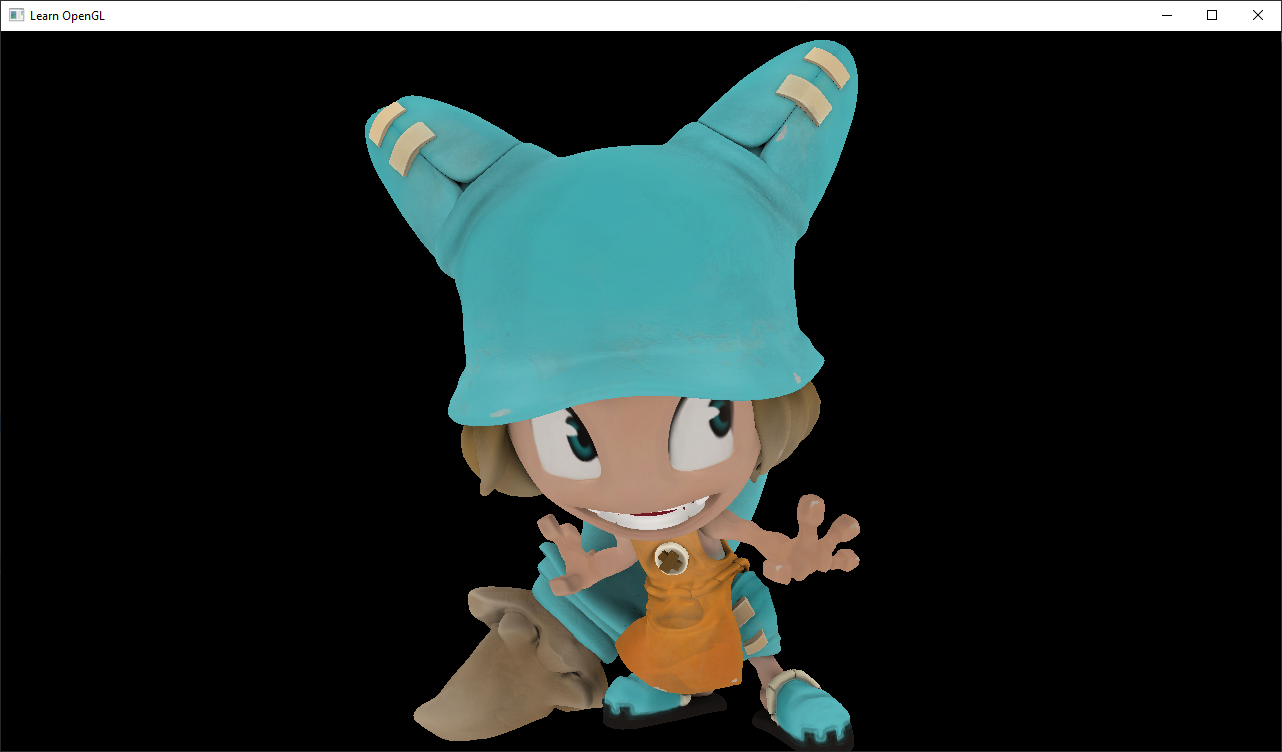
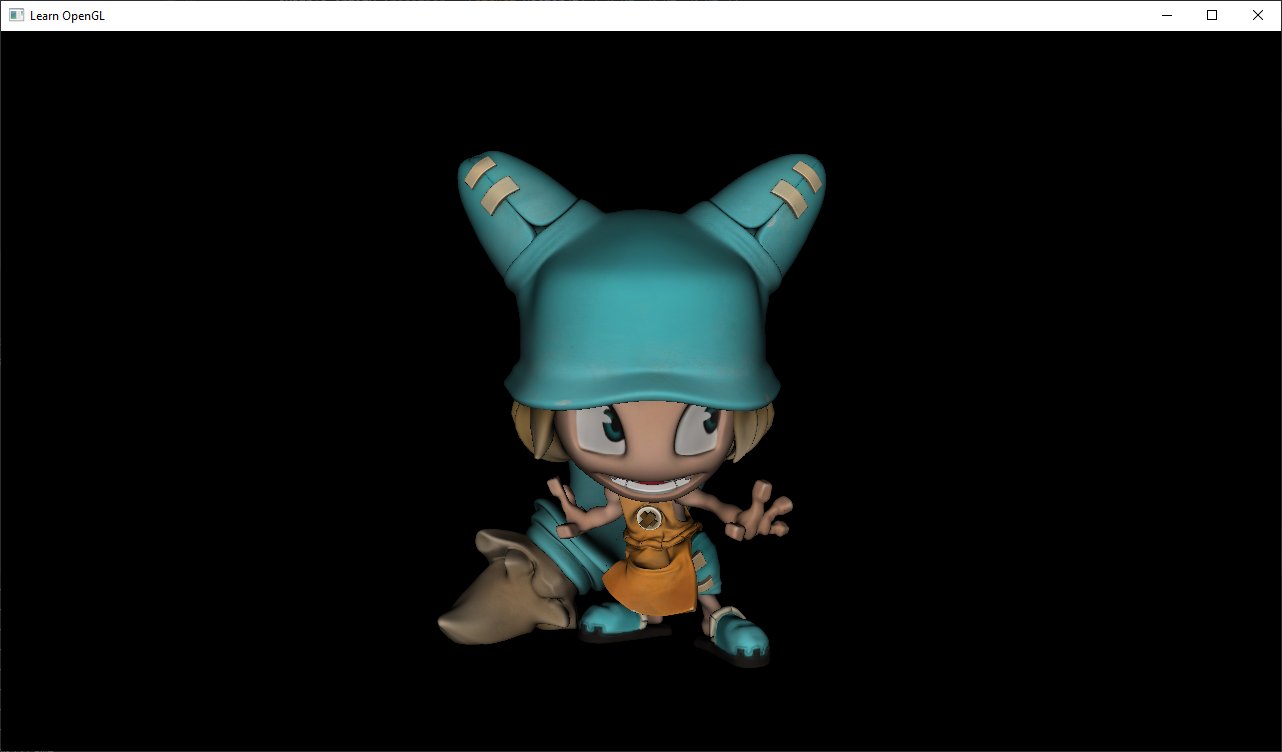
Diffuse lighting
Former-commit-id: 1a9fbbceac04022a40de9a5f4ab60ccb97bfb2f9

Changed region(s): [[0.2808, 0.0306, 0.6864, 1.0], [0.9984, 0.0306, 1.0, 0.0612]]

diff --git a/src/model.c b/src/model.c
@@ -9,6 +9,7 @@ struct model {
     GLuint vertices_buffer_id;
     GLuint faces_buffer_id;
     GLuint texture_uvs_buffer_id;
+    GLuint normals_buffer_id;
 
     size_t vertex_count;
     size_t face_count;
@@ -21,12 +22,16 @@ void model_use(struct model *model) {
     glBindBuffer(GL_ARRAY_BUFFER, model->vertices_buffer_id);
     glEnableVertexAttribArray(MODEL_ATTRIBUTE_VERTEX_COORDINATES);
 
-    // Faces
-    glBindBuffer(GL_ELEMENT_ARRAY_BUFFER, model->faces_buffer_id);
-
     // Texture uvs
     glBindBuffer(GL_ARRAY_BUFFER, model->texture_uvs_buffer_id);
     glEnableVertexAttribArray(MODEL_ATTRIBUTE_TEXTURE_COORDINATES);
+
+    // Normals
+    glBindBuffer(GL_ARRAY_BUFFER, model->normals_buffer_id);
+    glEnableVertexAttribArray(MODEL_ATTRIBUTE_NORMALS);
+
+    // Faces
+    glBindBuffer(GL_ELEMENT_ARRAY_BUFFER, model->faces_buffer_id);
 }
 
 size_t model_vertex_count(struct model *model) {
@@ -37,8 +42,7 @@ size_t model_face_count(struct model *model) {
     return model->face_count;
 }
 
-struct model *model_create_from_raw(
-    float *vertices, size_t vertex_count, unsigned int *faces, size_t face_count, float *texture_uvs) {
+struct model *model_create_from_raw(float *vertices, size_t vertex_count, unsigned int *faces, size_t face_count, float *texture_uvs, float *normals) {
     struct model *model = malloc(sizeof *model);
 
     if (!model) {
@@ -59,16 +63,22 @@ struct model *model_create_from_raw(
     glBufferData(GL_ARRAY_BUFFER, 3 * vertex_count * sizeof *vertices, vertices, GL_STATIC_DRAW);
     glVertexAttribPointer(MODEL_ATTRIBUTE_VERTEX_COORDINATES, 3, GL_FLOAT, GL_FALSE, 3 * sizeof (float), 0);
 
-    // Element Buffer Object (EBO).
-    glGenBuffers(1, &model->faces_buffer_id);
-    glBindBuffer(GL_ELEMENT_ARRAY_BUFFER, model->faces_buffer_id);
-    glBufferData(GL_ELEMENT_ARRAY_BUFFER, 3 * face_count * sizeof *faces, faces, GL_STATIC_DRAW);
-
     // Texture UVs.
     glGenBuffers(1, &model->texture_uvs_buffer_id);
     glBindBuffer(GL_ARRAY_BUFFER, model->texture_uvs_buffer_id);
     glBufferData(GL_ARRAY_BUFFER, 2 * vertex_count * sizeof *texture_uvs, texture_uvs, GL_STATIC_DRAW);
     glVertexAttribPointer(MODEL_ATTRIBUTE_TEXTURE_COORDINATES, 2, GL_FLOAT, GL_FALSE, 2 * sizeof (float), 0);
+
+    // Texture UVs.
+    glGenBuffers(1, &model->normals_buffer_id);
+    glBindBuffer(GL_ARRAY_BUFFER, model->normals_buffer_id);
+    glBufferData(GL_ARRAY_BUFFER, 3 * vertex_count * sizeof *normals, normals, GL_STATIC_DRAW);
+    glVertexAttribPointer(MODEL_ATTRIBUTE_NORMALS, 3, GL_FLOAT, GL_FALSE, 3 * sizeof (float), 0);
+
+    // Element Buffer Object (EBO).
+    glGenBuffers(1, &model->faces_buffer_id);
+    glBindBuffer(GL_ELEMENT_ARRAY_BUFFER, model->faces_buffer_id);
+    glBufferData(GL_ELEMENT_ARRAY_BUFFER, 3 * face_count * sizeof *faces, faces, GL_STATIC_DRAW);
 
     // Book-keeping
     model->vertex_count = vertex_count;
@@ -81,6 +91,7 @@ void model_destroy(struct model *model) {
     glDeleteBuffers(1, &model->vertices_buffer_id);
     glDeleteBuffers(1, &model->faces_buffer_id);
     glDeleteBuffers(1, &model->texture_uvs_buffer_id);
+    glDeleteBuffers(1, &model->normals_buffer_id);
     glDeleteVertexArrays(1, &model->vertex_array_id);
     free(model);
 }

diff --git a/src/shader.c b/src/shader.c
@@ -2,6 +2,7 @@
 #include "model.h"
 #include "toolkit.h"
 #include "vector.h"
+#include "light.h"
 
 #include <GL/glew.h>
 
@@ -15,6 +16,8 @@ struct shader {
     GLint uniform_transformation;
     GLint uniform_projection;
     GLint uniform_view;
+    GLint uniform_light_position;
+    GLint uniform_light_color;
 };
 
 GLuint _shader_load_one(const char *filepath, GLenum shader_type) {
@@ -77,6 +80,7 @@ struct shader *shader_load_by_name(const char *name) {
     // Binding shader input variables to attributes.
     glBindAttribLocation(shader->program_id, MODEL_ATTRIBUTE_VERTEX_COORDINATES, "position");
     glBindAttribLocation(shader->program_id, MODEL_ATTRIBUTE_TEXTURE_COORDINATES, "texture_coords");
+    glBindAttribLocation(shader->program_id, MODEL_ATTRIBUTE_NORMALS, "normal");
 
     // Linking
     glLinkProgram(shader->program_id);
@@ -98,11 +102,13 @@ struct shader *shader_load_by_name(const char *name) {
     shader->uniform_transformation = glGetUniformLocation(shader->program_id, "transformation");
     shader->uniform_projection = glGetUniformLocation(shader->program_id, "projection");
     shader->uniform_view = glGetUniformLocation(shader->program_id, "view");
+    shader->uniform_light_position = glGetUniformLocation(shader->program_id, "light_position");
+    shader->uniform_light_color = glGetUniformLocation(shader->program_id, "light_color");
 
     return shader;
 }
 
-void _shader_bind_uniform_matrix4f( GLint location, struct matrix4f m) {
+void _shader_bind_uniform_matrix4f(GLint location, struct matrix4f m) {
     float buffer[16] = {
         m.x1, m.x2, m.x3, m.x4,
         m.y1, m.y2, m.y3, m.y4,
@@ -113,15 +119,15 @@ void _shader_bind_uniform_matrix4f( GLint location, struct matrix4f m) {
     glUniformMatrix4fv(location, 1, false, buffer);
 }
 
-void _shader_bind_uniform_bool(struct shader *shader, GLint location, bool b) {
+void _shader_bind_uniform_bool(GLint location, bool b) {
     glUniform1f(location, b ? 1 : 0);
 }
 
-void _shader_bind_uniform_float(struct shader *shader, GLint location, float f) {
+void _shader_bind_uniform_float(GLint location, float f) {
     glUniform1f(location, f);
 }
 
-void _shader_bind_uniform_vec3f(struct shader *shader, GLint location, struct vector3f v) {
+void _shader_bind_uniform_vec3f(GLint location, struct vector3f v) {
     glUniform3f(location, v.x, v.y, v.z);
 }
 
@@ -129,6 +135,17 @@ void shader_bind_uniforms(struct shader *shader, struct matrix4f *transformation
     _shader_bind_uniform_matrix4f(shader->uniform_transformation, *transformation);
     _shader_bind_uniform_matrix4f(shader->uniform_projection, *projection);
     _shader_bind_uniform_matrix4f(shader->uniform_view, *view);
+
+}
+
+void shader_bind_uniforms_light(struct shader *shader, struct light *light) {
+    // Light position
+    struct vector3f *light_position = light_get_position(light);
+    glUniform3f(shader->uniform_light_position, light_position->x, light_position->y, light_position->z);
+
+    // Light color
+    struct vector3f *light_color = light_get_color(light);
+    glUniform3f(shader->uniform_light_color, light_color->x, light_color->y, light_color->z);
 }
 
 void shader_validate(struct shader *shader) {

diff --git a/src/main.c b/src/main.c
@@ -25,6 +25,9 @@ void main_loop(struct window *window, struct renderer *renderer) {
     // Camera
     struct camera *camera = camera_create();
 
+    // Light
+    struct light *light = light_create();
+
     // Prepare example model, shader and texture
     struct model *example_model = obj_load_model("models/wakfu.obj");
     struct shader *example_shader = shader_load_by_name("wakfu");
@@ -38,7 +41,10 @@ void main_loop(struct window *window, struct renderer *renderer) {
     example_entity->texture = example_texture;
 
     // Zoom-out the camera from the origin
-    camera_move(camera, 0, 0, 10.0f);
+    camera_move(camera, 0.0f, 0.0f, 8.0f);
+
+    // Move the light way back
+    light_move(light, 0.0f, 0.0f, 15.0f);
 
     double last_time = glfwGetTime();
     size_t nb_frames = 0;
@@ -63,7 +69,7 @@ void main_loop(struct window *window, struct renderer *renderer) {
         window_handle_events(window, renderer, camera);
 
         renderer_clear(renderer);
-        renderer_render(renderer, camera, example_entity);
+        renderer_render(renderer, camera, light, example_entity);
 
         window_refresh(window);
     }
@@ -72,5 +78,6 @@ void main_loop(struct window *window, struct renderer *renderer) {
     texture_destroy(example_texture);
     shader_destroy(example_shader);
     model_destroy(example_model);
+    light_destroy(light);
     camera_destroy(camera);
 }

diff --git a/src/light.c b/src/light.c
@@ -1,0 +1,40 @@
+#include "light.h"
+#include "vector.h"
+#include "toolkit.h"
+
+struct light {
+    struct vector3f position;
+    struct vector3f color;
+};
+
+struct light *light_create(void) {
+    struct light *light = malloc(sizeof *light);
+
+    if (!light) {
+        return NULL;
+    }
+
+    // TODO
+    light->position = (struct vector3f) { .x = 0.0f, .y = 0.0f, .z = 0.0f };
+    light->color = (struct vector3f) { .x = 1.0f, .y = 1.0f, .z = 1.0f };
+
+    return light;
+}
+
+void light_destroy(struct light *light) {
+    free(light);
+}
+
+void light_move(struct light *light, float dx, float dy, float dz) {
+    light->position.x += dx;
+    light->position.y += dy;
+    light->position.z += dz;
+}
+
+struct vector3f *light_get_position(struct light *light) {
+    return &light->position;
+}
+
+struct vector3f *light_get_color(struct light *light) {
+    return &light->color;
+}

diff --git a/src/renderer.c b/src/renderer.c
@@ -97,7 +97,7 @@ void renderer_set_wireframe(struct renderer *renderer, bool flag) {
     renderer->wireframe = flag;
 }
 
-void renderer_render(struct renderer *renderer, struct camera *camera, struct entity *entity) {
+void renderer_render(struct renderer *renderer, struct camera *camera, struct light *light, struct entity *entity) {
     TK_UNUSED(renderer);
 
     if (renderer->wireframe) {
@@ -116,6 +116,7 @@ void renderer_render(struct renderer *renderer, struct camera *camera, struct en
     struct matrix4f projection = renderer_projection_matrix(renderer);
     struct matrix4f view = camera_view_matrix(camera);
     shader_bind_uniforms(entity->shader, &transformation, &projection, &view);
+    shader_bind_uniforms_light(entity->shader, light);
 
     // This is for debugging
     // shader_validate(shader);

diff --git a/include/renderer.h b/include/renderer.h
@@ -4,6 +4,7 @@
 #include "entity.h"
 #include "camera.h"
 #include "window.h"
+#include "light.h"
 
 struct renderer;
 
@@ -15,7 +16,7 @@ void renderer_match_viewport(struct renderer *renderer, struct window *window);
 void renderer_set_wireframe(struct renderer *renderer, bool flag);
 
 void renderer_clear(struct renderer *renderer);
-void renderer_render(struct renderer *renderer, struct camera *camera, struct entity *entity);
+void renderer_render(struct renderer *renderer, struct camera *camera, struct light *light, struct entity *entity);
 
 struct matrix4f renderer_projection_matrix(struct renderer *renderer);
 

diff --git a/include/model.h b/include/model.h
@@ -6,11 +6,12 @@
 enum model_attributes {
     MODEL_ATTRIBUTE_VERTEX_COORDINATES = 0,
     MODEL_ATTRIBUTE_TEXTURE_COORDINATES = 1,
+    MODEL_ATTRIBUTE_NORMALS = 2,
 };
 
 struct model;
 
-struct model *model_create_from_raw(float *vertices, size_t vertex_count, unsigned int *edges, size_t edge_count, float *texture_uvs);
+struct model *model_create_from_raw(float *vertices, size_t vertex_count, unsigned int *edges, size_t edge_count, float *texture_uvs, float *normals);
 void model_destroy(struct model *model);
 
 void model_use(struct model *model);

diff --git a/include/shader.h b/include/shader.h
@@ -4,6 +4,7 @@
 #include "matrix.h"
 #include "vector.h"
 #include "toolkit.h"
+#include "light.h"
 
 struct shader;
 
@@ -14,5 +15,6 @@ void shader_use(struct shader *shader);
 void shader_validate(struct shader *shader);
 
 void shader_bind_uniforms(struct shader *shader, struct matrix4f *transformation, struct matrix4f *projection, struct matrix4f *view);
+void shader_bind_uniforms_light(struct shader *shader, struct light *light);
 
 #endif

diff --git a/src/obj.c b/src/obj.c
@@ -134,5 +134,5 @@ struct model *obj_load_model(const char *filepath) {
     tk_collection_fini(&faces);
 
     // TODO: Error handling
-    return model_create_from_raw(final_vertices, final_vertex_count, final_faces, final_face_count, final_textures);
+    return model_create_from_raw(final_vertices, final_vertex_count, final_faces, final_face_count, final_textures, final_normals);
 }

diff --git a/include/light.h b/include/light.h
@@ -1,0 +1,16 @@
+#ifndef LEARNGL_LIGHT_H
+#define LEARNGL_LIGHT_H
+
+#include "vector.h"
+
+struct light;
+
+struct light *light_create(void);
+void light_destroy(struct light *light);
+
+void light_move(struct light *light, float dx, float dy, float dz);
+
+struct vector3f *light_get_position(struct light *light);
+struct vector3f *light_get_color(struct light *light);
+
+#endif

diff --git a/src/matrix.c b/src/matrix.c
@@ -103,6 +103,7 @@ void matrix_scale(struct matrix4f *m, float sx, float sy, float sz) {
     matrix_dot_product(m, t);
 }
 
+// TODO: Misnamed?
 void matrix_dot_product(struct matrix4f *p, struct matrix4f o) {
     struct matrix4f m = *p;
 

diff --git a/README.md b/README.md
@@ -12,23 +12,23 @@ Just a simple project while I'm learning OpenGL.
 - Support .obj file format.
 - Pan-tilt-zoom camera.
 - Wireframe toggleable mode.
+- Diffuse lighting.
 
-### Work in progress
-
-- Per-pixel lighting
-
-### Planned soon
+### Short term
 
 - Numerous code refactors
     - Window handling events with camera/renderer imports
     - Toolkit collection/dynarray
     - Renderer pluggable/default perspective
 - Drop SOIL, use libpng directly
-- Specular highlights
 - Optimizations
-    - Turn obj module into loader moduke
+    - Turn obj module into loader module
     - Meshes back-face culling
     - Batch rendering
+
+### Long term
+
+- Specular highlights
 - Terrain
 - Transparency
 - Fog
